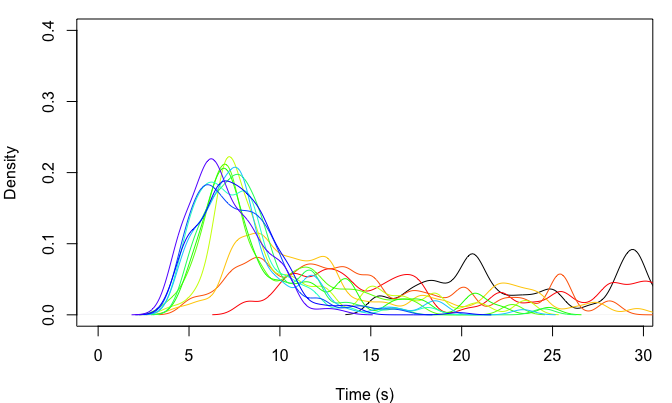
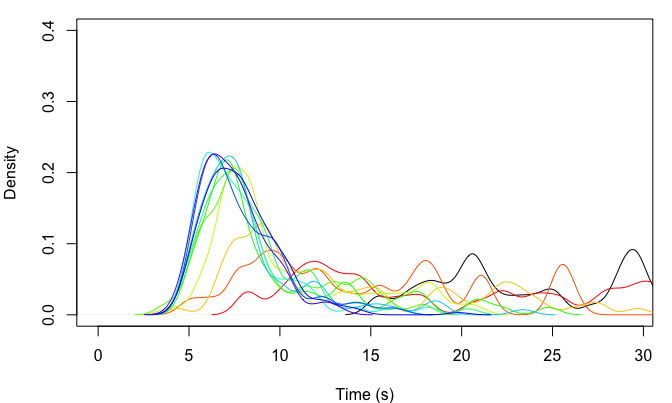
Adding interactions to simulation files

Changed region(s): [[0.1875, 0.3573, 0.9688, 0.804], [0.9062, 0.6849, 0.9688, 0.7146], [0.3125, 0.7742, 0.3438, 0.804]]

diff --git a/README.md b/README.md
@@ -106,10 +106,9 @@ beta
 (init_time/n_holds)*seq_ratios
 ```
 
-    ##  [1] 1.54654608 0.95510333 0.92651585 0.08014587 0.98874284 1.64918477
-    ##  [7] 1.59737026 0.54068454 0.97007375 1.48833533 0.41680015 2.10284916
-    ## [13] 0.71327012 0.76952162 1.49943596 0.96096083 0.66607250 0.75339420
-    ## [19] 0.39938663 1.46520325
+    ##  [1] 0.7020366 0.7505131 1.5601573 0.4376044 0.7571112 0.8110028 0.1830058
+    ##  [8] 0.7243347 0.9740226 2.0312848 1.6003573 0.8397763 1.2809386 1.3197038
+    ## [15] 1.1861912 1.1418648 0.8981191 1.3700834 1.4813591 1.6863201
 
 This `sd_multiplier` value of 0.5 generates a distribution of times per
 hold that is similar to the example distribution in [Reveret et
@@ -220,20 +219,22 @@ adjust the mean innovation and social learning rates of the population
 with the following two equations for innovation and social learning,
 respectively:
 
-*μ* = *μ*<sub>*a**v**g*</sub> + (*μ*<sub>*a**v**g*</sub> \* *t*<sub>*n**o**r**m*</sub> \* *ϕ*) + (*μ*<sub>*a**v**g*</sub> \* *p*<sub>*n**o**r**m*</sub> \* *ω*)
+*l**o**g**i**t*(*μ*) = *l**o**g**i**t*(*μ*<sub>*a**v**g*</sub>) + *t*<sub>*s**c**a**l**e*</sub> \* *ϕ* + *p*<sub>*s**c**a**l**e*</sub> \* *ω*
 
-*λ* = *λ*<sub>*a**v**g*</sub> + (*λ*<sub>*a**v**g*</sub> \* *t*<sub>*n**o**r**m*</sub> \* *ϵ*) + (*λ*<sub>*a**v**g*</sub> \* *p*<sub>*n**o**r**m*</sub> \* *σ*)
+*l**o**g**i**t*(*λ*) = *l**o**g**i**t*(*λ*<sub>*a**v**g*</sub>) + *t*<sub>*s**c**a**l**e*</sub> \* *ϵ* + *p*<sub>*s**c**a**l**e*</sub> \* *σ*
 
-In each case there are three parameters in play. For innovation (*μ*)
-there is the population average (*μ*<sub>*a**v**g*</sub>), the effect of
-a climber’s record time (*ϕ*), and the effect of population size (*ω*).
-The effects of time and population size are computed as follows: (1) all
-values are collected and normalize to be between -0.5 and 0.5 (to
-prevent *μ* from taking a value that is negative or greater than 1), (2)
-the normalized values are multiplied by number between -1 and 1, where
-the sign and absolute value control the direction and strength of the
-effect, respectively, and (3) the values are the multiplied by the
-innovation rate. Social learning is computed identically.
+The calculations are done on the logit scale so that everything remains
+between 0 and 1. In each case there are three parameters in play. For
+innovation (*μ*) there is the population average
+(*μ*<sub>*a**v**g*</sub>), the effect of a climber’s record time (*ϕ*),
+and the effect of population size (*ω*). The effects of time and
+population size are computed as follows: (1) all values are scaled and
+centered with a mean of 0 and standard deviation of 1, (2) the scale
+values are multiplied by number between -1 and 1, where the sign and
+absolute value control the direction and strength of the effect,
+respectively, and (3) the values are the multiplied by the
+logit-transformed innovation rate. Social learning is computed
+identically.
 
 ## Test Run
 
@@ -276,9 +277,6 @@ output is plotted, and `bw` and `ylim` control the density bandwidth and
 y-axis limit of the plot, respectively.
 
 ``` r
-#set seed
-set.seed(1234)
-
 #store starting time
 start <- Sys.time()
 
@@ -296,7 +294,7 @@ output <- SpeedClimbingABM(n = n, years = years, pop_data = pop_data,
 Sys.time() - start
 ```
 
-    ## Time difference of 0.2054138 secs
+    ## Time difference of 0.3081088 secs
 
 In the above plot, each distribution (from right to left) is the
 distribution of `current_records` for climbers in the population in each
@@ -309,32 +307,32 @@ output
 
     ##              0%       10%       20%       30%       40%       50%       60%
     ##  [1,] 15.400000 18.256000 20.408000 21.188000 24.432000 28.640000 29.712000
-    ##  [2,]  8.080000 10.792078 12.595086 14.207000 16.624383 21.005000 25.346383
-    ##  [3,]  5.121612  7.486083  8.857693 10.413711 11.880000 13.415965 15.034759
-    ##  [4,]  4.427646  7.330000  8.280000  9.060873 10.260000 11.505000 12.690000
-    ##  [5,]  4.085305  6.656002  6.895399  7.260000  7.716089  8.495000  9.030000
-    ##  [6,]  3.916424  5.818966  6.316772  6.880989  7.256000  7.570000  8.697094
-    ##  [7,]  4.707196  5.744544  6.440032  6.888000  7.230000  7.750000  8.572967
-    ##  [8,]  4.814067  5.535941  6.182275  6.867570  7.444943  7.753000  8.386036
-    ##  [9,]  4.349611  5.159661  5.732242  6.130444  6.658000  7.380000  7.974788
-    ## [10,]  4.301087  5.198519  6.012860  6.590600  7.100000  7.628814  7.969707
-    ## [11,]  4.045014  5.002193  5.697375  6.082293  6.605550  7.275000  7.968245
-    ## [12,]  3.844005  5.005992  5.812900  6.521600  6.860800  7.510000  7.986000
-    ## [13,]  3.637549  4.643800  5.409489  5.839823  6.267918  6.674973  7.150395
+    ##  [2,]  8.040347 10.815672 12.103209 13.581734 15.939330 21.280104 24.554723
+    ##  [3,]  5.043516  7.754359  9.100716 10.227195 11.880000 13.702529 16.552613
+    ##  [4,]  4.353751  7.330000  8.280000  9.045000  9.880000 11.505000 12.850000
+    ##  [5,]  4.006596  6.770278  7.100000  7.376533  7.980000  8.475000  8.690000
+    ##  [6,]  3.831875  5.581637  6.270000  7.095559  7.358773  7.817781  8.362237
+    ##  [7,]  4.948169  5.755661  6.426130  6.888000  7.234000  7.629122  8.308000
+    ##  [8,]  4.798627  5.652986  6.275270  6.766000  7.295516  7.700000  8.138765
+    ##  [9,]  4.742585  5.527332  5.803689  6.242308  6.600000  7.138911  7.643753
+    ## [10,]  4.710918  5.538128  6.197870  6.565593  7.105216  7.595000  7.844000
+    ## [11,]  4.693024  5.524281  6.007117  6.333105  6.679472  7.275000  7.942715
+    ## [12,]  4.526985  5.523528  6.267066  6.587757  7.108947  7.620000  7.993465
+    ## [13,]  4.322934  5.442188  5.892151  6.313096  6.690013  7.137684  7.609802
     ##             70%       80%       90%     100%
     ##  [1,] 32.472000 39.548000 43.254000 62.06000
-    ##  [2,] 28.575620 30.598000 33.133000 48.08000
-    ##  [3,] 17.720711 21.064881 25.362948 33.23000
-    ##  [4,] 15.772333 21.570000 23.695000 31.90000
-    ##  [5,] 10.919903 14.713726 17.686977 23.54001
-    ##  [6,] 10.484446 11.984608 14.315888 22.77862
-    ##  [7,] 10.664038 13.482000 17.266000 24.79000
-    ##  [8,]  8.888400  9.734000 11.792800 24.51503
-    ##  [9,]  8.410000  9.220311 10.744413 18.15000
-    ## [10,]  8.491245 10.018000 12.002843 23.37000
-    ## [11,]  8.587000  9.342000 10.460937 16.59000
-    ## [12,]  8.668000  9.214409 10.322000 19.83000
-    ## [13,]  7.984400  8.556629  9.847071 13.30600
+    ##  [2,] 28.557000 30.598000 32.705593 48.08000
+    ##  [3,] 18.278795 20.932386 25.378146 33.23000
+    ##  [4,] 15.736858 20.530000 23.290000 31.90000
+    ##  [5,] 10.454543 13.858764 17.315281 20.81474
+    ##  [6,]  9.262631 11.576707 14.261686 17.84559
+    ##  [7,]  9.937324 13.482000 17.266000 24.79000
+    ##  [8,]  8.974000  9.734000 11.792800 20.35791
+    ##  [9,]  8.290000  8.817964 10.933019 18.15000
+    ## [10,]  8.484000 10.018000 12.428890 23.37000
+    ## [11,]  8.587000  9.593633 10.783000 16.59000
+    ## [12,]  8.760000  9.300400 10.444000 19.83000
+    ## [13,]  8.115099  8.787356  9.986058 13.30600
 
 Let’s do another run of the model, but let’s add interaction effects so
 that climbers with slower times are more likely to learn
@@ -344,9 +342,6 @@ more common as population size increases (`learn_x_pop` and
 `innov_x_pop` = 1).
 
 ``` r
-#set seed
-set.seed(123)
-
 #store starting time
 start <- Sys.time()
 
@@ -365,7 +360,7 @@ output <- SpeedClimbingABM(n = n, years = years, pop_data = pop_data,
 Sys.time() - start
 ```
 
-    ## Time difference of 0.1387079 secs
+    ## Time difference of 0.3436639 secs
 
 ``` r
 output
@@ -373,29 +368,29 @@ output
 
     ##              0%       10%       20%       30%       40%       50%       60%
     ##  [1,] 15.400000 18.256000 20.408000 21.188000 24.432000 28.640000 29.712000
-    ##  [2,]  8.080000 11.645148 12.480000 13.904565 16.688494 20.890276 25.378000
-    ##  [3,]  6.078534  8.776027 10.403746 10.943080 11.508083 12.720000 16.414577
-    ##  [4,]  5.424321  7.541740  8.480000  9.212481  9.880000 11.045000 12.690000
-    ##  [5,]  4.812923  6.784847  7.230000  7.828684  8.498113  8.624185  9.749283
-    ##  [6,]  4.588876  6.195000  6.368870  7.261000  7.760000  8.285544  8.829000
-    ##  [7,]  4.763685  6.055515  6.498000  7.172411  7.401167  7.891999  8.552997
-    ##  [8,]  4.648766  5.934740  6.430000  6.982200  7.322939  7.753000  8.418861
-    ##  [9,]  4.270656  5.853531  6.157368  6.560000  7.089741  7.380000  8.178398
-    ## [10,]  3.848980  5.989515  6.472099  6.799000  7.230000  7.640000  8.028000
-    ## [11,]  3.835478  5.454607  5.983990  6.616223  6.986027  7.510000  8.094000
-    ## [12,]  3.827927  5.395610  6.093508  6.596000  7.109743  7.593182  7.966000
-    ## [13,]  3.949135  5.101305  5.591489  6.145706  6.742080  7.342760  7.769094
+    ##  [2,]  8.080000 10.742886 12.480000 13.893208 15.533201 20.965456 25.160000
+    ##  [3,]  6.386811  8.583561  9.841354 10.870492 11.375709 12.839691 15.285648
+    ##  [4,]  5.577313  7.790000  8.676870  9.381616  9.880000 11.390000 12.690000
+    ##  [5,]  5.218444  6.978805  7.360000  7.780580  8.500000  8.729471  9.052693
+    ##  [6,]  5.059349  6.383908  7.120000  7.286414  7.933110  8.317257  8.829000
+    ##  [7,]  5.563659  6.449403  6.882000  7.226000  7.636000  8.029496  8.553660
+    ##  [8,]  5.188753  6.154628  6.650903  7.182901  7.708200  7.876217  8.554000
+    ##  [9,]  5.161489  6.051033  6.526585  6.909945  7.233582  7.820720  8.032846
+    ## [10,]  5.111258  6.043986  6.478000  6.862000  7.238015  7.646579  8.028000
+    ## [11,]  3.934889  5.661430  6.249632  6.681000  7.135740  7.553466  8.094000
+    ## [12,]  3.407496  5.108179  5.920000  6.526444  6.938784  7.504000  7.940341
+    ## [13,]  3.404797  4.754109  5.389326  5.938797  6.478037  6.966250  7.459717
     ##             70%       80%       90%     100%
     ##  [1,] 32.472000 39.548000 43.254000 62.06000
-    ##  [2,] 28.862856 30.598000 33.133000 48.08000
-    ##  [3,] 20.217217 24.031646 25.486566 33.23000
-    ##  [4,] 17.021114 21.710000 23.384976 31.90000
-    ##  [5,] 11.030228 14.900000 18.989183 23.92649
-    ##  [6,] 10.380000 12.204223 16.192984 21.87558
-    ##  [7,] 10.369584 13.546000 17.266000 24.79000
-    ##  [8,]  8.996000  9.734000 11.961817 23.91483
-    ##  [9,]  8.362483  9.025337 10.559113 18.15000
-    ## [10,]  8.654000 10.246125 12.051000 23.37000
-    ## [11,]  8.927581  9.880000 11.551775 18.62209
-    ## [12,]  8.744265  9.239800 10.444000 19.83000
-    ## [13,]  8.215400  8.994400  9.952242 17.96081
+    ##  [2,] 28.557000 30.598000 33.133000 48.08000
+    ##  [3,] 18.686123 22.914965 25.526000 33.23000
+    ##  [4,] 16.286312 22.068577 24.230000 31.90000
+    ##  [5,] 10.605973 15.150350 18.937788 22.67335
+    ##  [6,] 10.121246 11.601399 16.505278 21.39943
+    ##  [7,] 10.753404 13.610000 17.266000 24.79000
+    ##  [8,]  8.976150  9.734000 11.862000 22.71448
+    ##  [9,]  8.502000  8.926733 11.262000 18.15000
+    ## [10,]  8.654000 10.150000 12.355230 23.37000
+    ## [11,]  8.854000  9.594059 11.055349 16.59000
+    ## [12,]  8.668000  9.248506 10.322000 19.83000
+    ## [13,]  7.981297  8.439097  9.527263 13.30600
